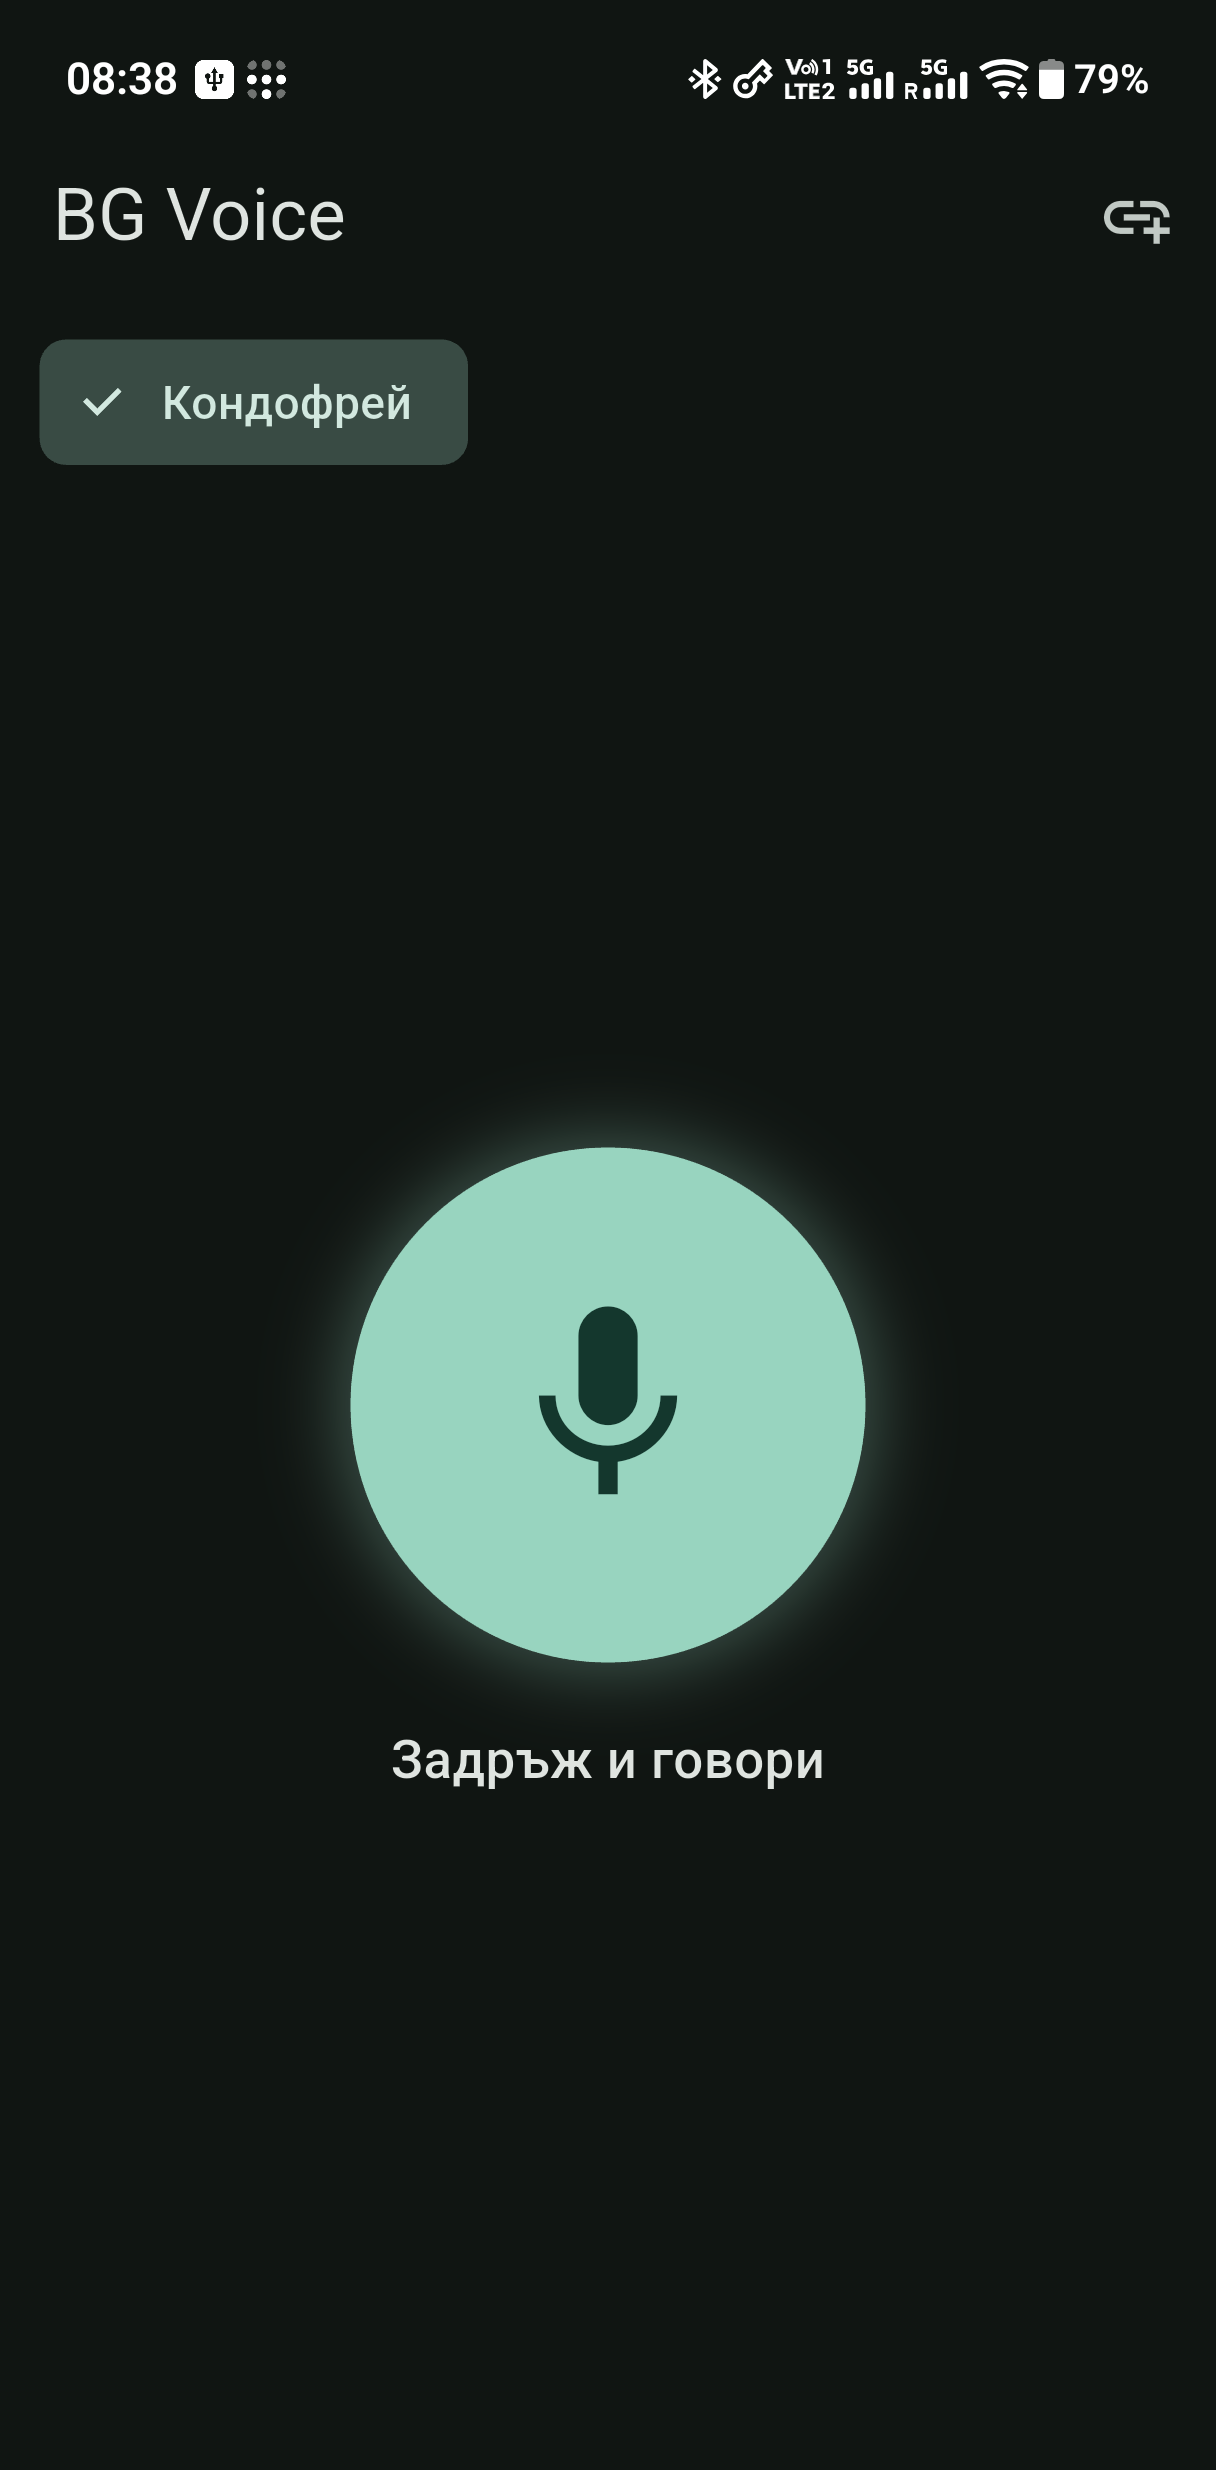
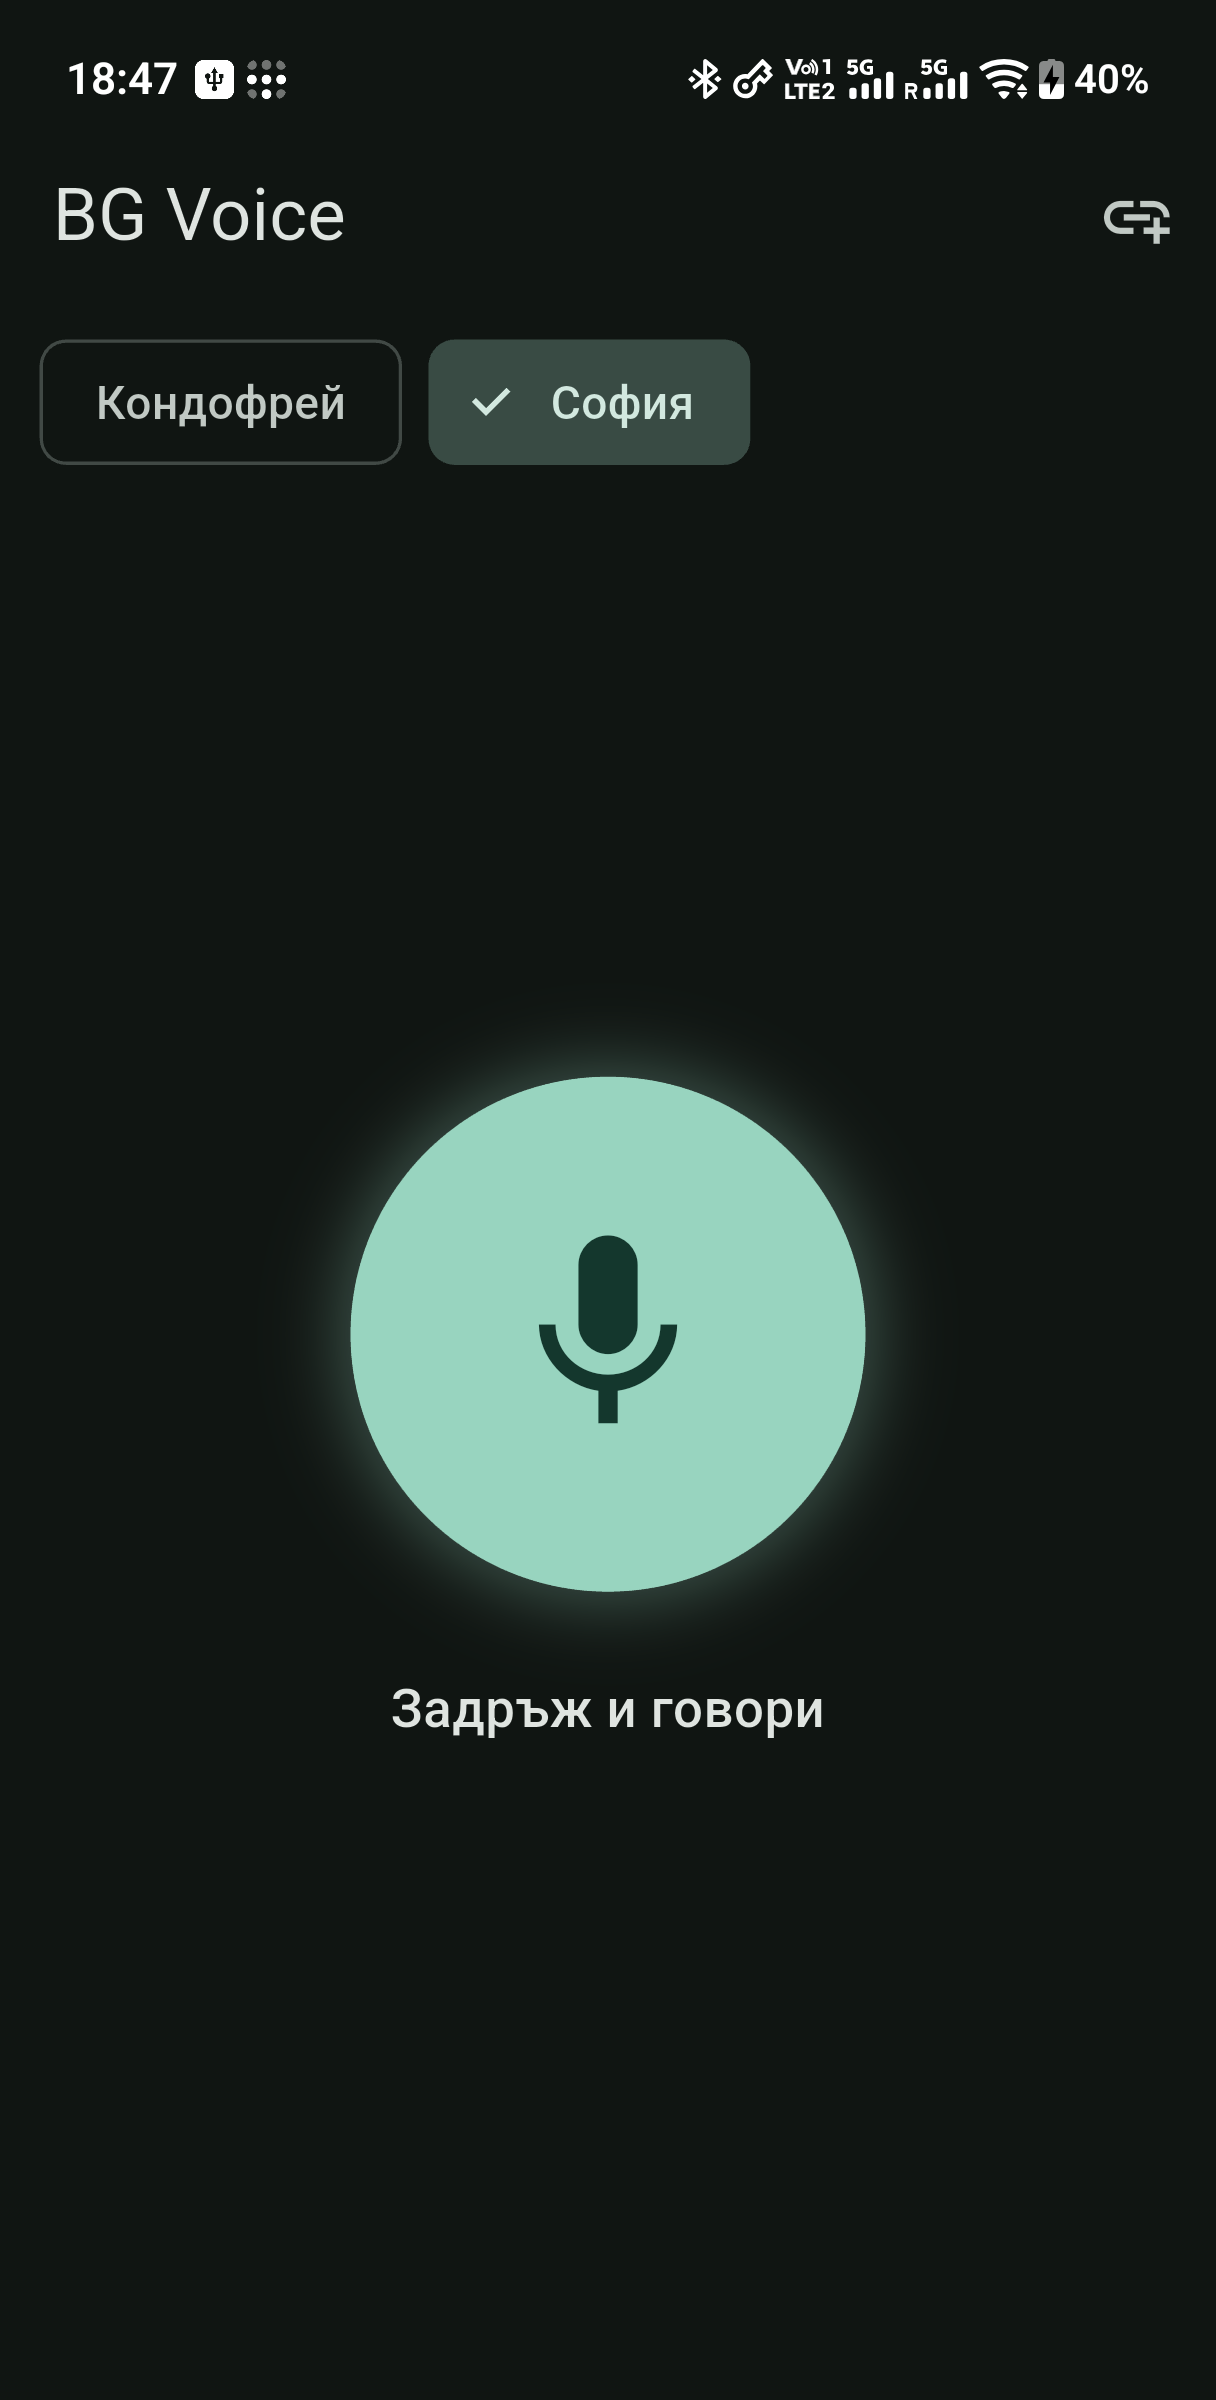
Keep the mic fixed when feedback appears
The mic and feedback shared one centred column: showing the result card
recentred the column and moved the button up, and clearing the card on the
next press moved it back down under the finger, turning the hold into an
onTapCancel.

Anchor the mic in a fixed 168 dp slot at 42% of the free height and give
status, errors and the result card their own scrollable region below. Only
the circle inside the slot animates while recording. Refresh the screenshot
and document the invariant in AGENTS.md.

diff --git a/lib/main.dart b/lib/main.dart
@@ -1,5 +1,6 @@
 import 'dart:async';
 import 'dart:io';
+import 'dart:math' as math;
 
 import 'package:audioplayers/audioplayers.dart';
 import 'package:flutter/material.dart';
@@ -42,6 +43,14 @@ class HomePage extends StatefulWidget {
 }
 
 class _HomePageState extends State<HomePage> {
+  // The mic keeps a fixed layout slot so feedback appearing below it can never
+  // move it; only the circle inside the slot animates while recording.
+  static const double _micSlotSize = 168;
+  static const double _micIdleSize = 156;
+  // Slot centre as a share of the free height: a bit above the middle, leaving
+  // room for the result card underneath.
+  static const double _micCenterFraction = 0.42;
+
   final GatewayStore _store = GatewayStore();
   final GatewayClient _client = GatewayClient();
   final VoiceRecorder _recorder = VoiceRecorder();
@@ -368,43 +377,31 @@ class _HomePageState extends State<HomePage> {
             if (_loading) const LinearProgressIndicator(minHeight: 2),
             _buildGatewayStrip(theme),
             Expanded(
-              child: Center(
-                child: SingleChildScrollView(
-                  padding: const EdgeInsets.symmetric(
-                    horizontal: 24,
-                    vertical: 16,
-                  ),
-                  child: ConstrainedBox(
-                    constraints: const BoxConstraints(maxWidth: 520),
-                    child: Column(
-                      mainAxisSize: MainAxisSize.min,
-                      children: [
-                        _buildMicButton(theme),
-                        const SizedBox(height: 18),
-                        Text(
-                          _recording ? 'Пусни за изпращане' : 'Задръж и говори',
-                          style: theme.textTheme.titleMedium,
-                        ),
-                        const SizedBox(height: 12),
-                        if (_status != null) Text(_status!),
-                        if (_error != null)
-                          Padding(
-                            padding: const EdgeInsets.only(top: 8),
-                            child: Text(
-                              _error!,
-                              textAlign: TextAlign.center,
-                              style: TextStyle(color: theme.colorScheme.error),
-                            ),
-                          ),
-                        if (_result != null)
-                          Padding(
-                            padding: const EdgeInsets.only(top: 20),
-                            child: _ResultCard(result: _result!),
-                          ),
-                      ],
-                    ),
-                  ),
-                ),
+              child: LayoutBuilder(
+                builder: (context, constraints) {
+                  final topGap = math.max(
+                    8.0,
+                    constraints.maxHeight * _micCenterFraction -
+                        _micSlotSize / 2,
+                  );
+                  return Column(
+                    children: [
+                      SizedBox(height: topGap),
+                      _buildMicButton(theme),
+                      const SizedBox(height: 18),
+                      Text(
+                        _recording ? 'Пусни за изпращане' : 'Задръж и говори',
+                        textAlign: TextAlign.center,
+                        style: theme.textTheme.titleMedium,
+                      ),
+                      const SizedBox(height: 12),
+                      // Feedback and the result card live in their own fixed
+                      // region, so showing or hiding them never re-centres the
+                      // mic and breaks a hold gesture.
+                      Expanded(child: _buildFeedback(theme)),
+                    ],
+                  );
+                },
               ),
             ),
             Padding(
@@ -460,45 +457,82 @@ class _HomePageState extends State<HomePage> {
     );
   }
 
+  Widget _buildFeedback(ThemeData theme) {
+    return SingleChildScrollView(
+      padding: const EdgeInsets.fromLTRB(24, 0, 24, 16),
+      child: Center(
+        child: ConstrainedBox(
+          constraints: const BoxConstraints(maxWidth: 520),
+          child: Column(
+            crossAxisAlignment: CrossAxisAlignment.stretch,
+            children: [
+              if (_status != null) Text(_status!, textAlign: TextAlign.center),
+              if (_error != null)
+                Padding(
+                  padding: const EdgeInsets.only(top: 8),
+                  child: Text(
+                    _error!,
+                    textAlign: TextAlign.center,
+                    style: TextStyle(color: theme.colorScheme.error),
+                  ),
+                ),
+              if (_result != null)
+                Padding(
+                  padding: const EdgeInsets.only(top: 20),
+                  child: _ResultCard(result: _result!),
+                ),
+            ],
+          ),
+        ),
+      ),
+    );
+  }
+
   Widget _buildMicButton(ThemeData theme) {
     final color = _recording
         ? theme.colorScheme.error
         : _sending
         ? theme.colorScheme.secondary
         : theme.colorScheme.primary;
-    return GestureDetector(
-      behavior: HitTestBehavior.opaque,
-      onTapDown: (_) => _onPressStart(),
-      onTapUp: (_) => _onPressEnd(),
-      onTapCancel: _onPressCancel,
-      child: AnimatedContainer(
-        duration: const Duration(milliseconds: 150),
-        width: _recording ? 168 : 156,
-        height: _recording ? 168 : 156,
-        decoration: BoxDecoration(
-          shape: BoxShape.circle,
-          color: color,
-          boxShadow: [
-            BoxShadow(
-              color: color.withValues(alpha: 0.35),
-              blurRadius: _recording ? 32 : 18,
-              spreadRadius: _recording ? 8 : 2,
-            ),
-          ],
-        ),
-        child: _sending
-            ? const Padding(
-                padding: EdgeInsets.all(56),
-                child: CircularProgressIndicator(
-                  strokeWidth: 3,
-                  color: Colors.white,
+    return SizedBox(
+      width: _micSlotSize,
+      height: _micSlotSize,
+      child: Center(
+        child: GestureDetector(
+          behavior: HitTestBehavior.opaque,
+          onTapDown: (_) => _onPressStart(),
+          onTapUp: (_) => _onPressEnd(),
+          onTapCancel: _onPressCancel,
+          child: AnimatedContainer(
+            duration: const Duration(milliseconds: 150),
+            width: _recording ? _micSlotSize : _micIdleSize,
+            height: _recording ? _micSlotSize : _micIdleSize,
+            decoration: BoxDecoration(
+              shape: BoxShape.circle,
+              color: color,
+              boxShadow: [
+                BoxShadow(
+                  color: color.withValues(alpha: 0.35),
+                  blurRadius: _recording ? 32 : 18,
+                  spreadRadius: _recording ? 8 : 2,
                 ),
-              )
-            : Icon(
-                _recording ? Icons.graphic_eq : Icons.mic,
-                size: 72,
-                color: theme.colorScheme.onPrimary,
-              ),
+              ],
+            ),
+            child: _sending
+                ? const Padding(
+                    padding: EdgeInsets.all(56),
+                    child: CircularProgressIndicator(
+                      strokeWidth: 3,
+                      color: Colors.white,
+                    ),
+                  )
+                : Icon(
+                    _recording ? Icons.graphic_eq : Icons.mic,
+                    size: 72,
+                    color: theme.colorScheme.onPrimary,
+                  ),
+          ),
+        ),
       ),
     );
   }

diff --git a/README.md b/README.md
@@ -99,7 +99,7 @@ gateway URL is shown at the bottom while idle.
 
 ### Talk
 
-Hold the centre button and speak, then release:
+Hold the mic button and speak, then release:
 
 ```
 press → RECORD_AUDIO permission (first time) → record 16 kHz mono PCM16 WAV
@@ -111,8 +111,10 @@ release → POST multipart /v1/voice → show reply → play audio if speak == t
 - While sending, the button shows a spinner and further presses are ignored.
 - Temporary WAV files are deleted after send or cancel.
 
-The result card shows the transcript (`Чух:`), the gateway's reply, the kind
-(`action` / `query` / `no_match`), intent, score and total latency.
+The result card appears below the mic, which stays fixed in place; showing or
+clearing it never moves the button under your finger. The card shows the
+transcript (`Чух:`), the gateway's reply, the kind (`action` / `query` /
+`no_match`), intent, score and total latency.
 
 ### Edit or delete a gateway
 

diff --git a/AGENTS.md b/AGENTS.md
@@ -110,6 +110,11 @@ Debug build is ~167 MB. Do not build with Java 27 — the current AGP rejects it
   window. Do not remove them; a fast tap otherwise leaves the recorder running.
 - **`onTapCancel` cancels the recording** (finger dragged off). Intentional;
   sending on cancel caused accidental commands.
+- **The mic must not move when feedback appears.** It sits in a fixed 168 dp
+  slot at 42% of the free height; status, errors and the result card live in a
+  separate scrollable region below. Do not put them back in one centred column
+  with the button: clearing the result on the next press would move the button
+  under the finger and turn the hold into an `onTapCancel`.
 - **450 ms minimum**: shorter recordings are discarded (`_tooShort`).
 - **Saved URLs and secrets are not migrated.** Changing the default port
   (8080 → 8125) does not rewrite existing gateway entries; the user edits them
